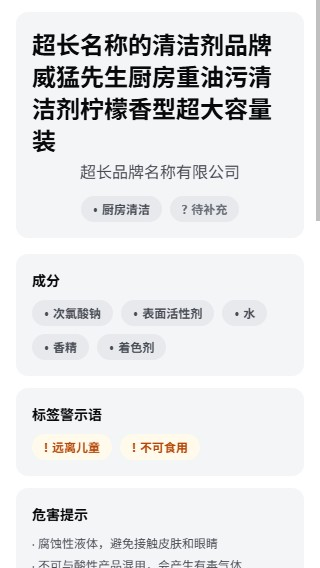
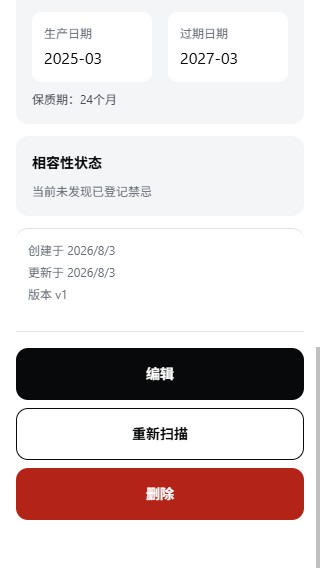
fix: 滚动截图验证目标可见性 + JSON独立记录bottom结果
修复P1滚动截图问题：
1. scroll_and_verify函数：找到可滚动容器后滚动，验证目标文字
   (edit-form='保存', detail-long-text='删除')进入视口
2. 目标不可见时标记FAIL，不因截图写入成功就标记PASS
3. 8张bottom截图结果独立写入JSON，总计104项
4. 验证结果：104/104 PASS，8张bottom全部验证目标文字可见

干净检出验证：
- TypeScript通过
- 103测试通过
- 127后端测试通过
- Expo Web 894KB导出成功

diff --git a/mobile/scripts/qa-screenshots.py b/mobile/scripts/qa-screenshots.py
@@ -136,28 +136,82 @@ def capture_screenshot(ws, filepath, mid):
         return len(img_data)
     return 0
 
-def scroll_to_bottom(ws, mid):
-    # React Native Web ScrollView renders as a div with overflowY:auto/scroll
-    # Find all divs and check computed style for scrollable containers
+# 滚动场景的目标验证文字：滚动后必须可见
+SCROLL_TARGETS = {
+    "edit-form": "保存",
+    "detail-long-text": "删除",
+}
+
+def scroll_and_verify(ws, scene, mid):
+    """滚动到底部并验证目标文字进入视口。返回 (ok, reason)。"""
+    target_text = SCROLL_TARGETS.get(scene)
+    if not target_text:
+        return True, "无滚动目标"
+
+    # 记录滚动前的 scrollTop
     mid[0] += 1
-    send_cdp(ws, "Runtime.evaluate", {
+    resp = send_cdp(ws, "Runtime.evaluate", {
         "expression": """
             (function() {
                 var all = document.querySelectorAll('div');
-                var scrolled = 0;
+                var maxScroll = 0;
+                var scrollEl = null;
                 all.forEach(function(el) {
                     var style = window.getComputedStyle(el);
                     var oy = style.overflowY;
                     if ((oy === 'auto' || oy === 'scroll') && el.scrollHeight > el.clientHeight) {
-                        el.scrollTop = el.scrollHeight;
-                        scrolled++;
+                        if (el.scrollTop > maxScroll || scrollEl === null) {
+                            maxScroll = el.scrollTop;
+                            scrollEl = el;
+                        }
                     }
                 });
-                return scrolled + ' containers scrolled';
+                if (!scrollEl) return JSON.stringify({found: false, beforeScroll: 0});
+                // Scroll to bottom
+                scrollEl.scrollTop = scrollEl.scrollHeight;
+                return JSON.stringify({
+                    found: true,
+                    beforeScroll: maxScroll,
+                    scrollHeight: scrollEl.scrollHeight,
+                    clientHeight: scrollEl.clientHeight,
+                    afterScroll: scrollEl.scrollTop
+                });
             })()
         """
     }, mid[0])
-    time.sleep(2)
+    scroll_info = json.loads(resp.get("result", {}).get("result", {}).get("value", "{}"))
+    if not scroll_info.get("found"):
+        return False, "未找到可滚动容器"
+
+    time.sleep(1)
+
+    # 验证目标文字是否在可见区域内
+    mid[0] += 1
+    resp = send_cdp(ws, "Runtime.evaluate", {
+        "expression": f"""
+            (function() {{
+                // 检查目标文字是否在视口中可见
+                var walker = document.createTreeWalker(document.body, NodeFilter.SHOW_TEXT);
+                var target = {repr(target_text)};
+                while (walker.nextNode()) {{
+                    var node = walker.currentNode;
+                    if (node.textContent.includes(target)) {{
+                        var el = node.parentElement;
+                        var rect = el.getBoundingClientRect();
+                        if (rect.top >= 0 && rect.bottom <= window.innerHeight) {{
+                            return JSON.stringify({{visible: true, text: target, top: rect.top, bottom: rect.bottom}});
+                        }}
+                    }}
+                }}
+                return JSON.stringify({{visible: false, text: target}});
+            }})()
+        """
+    }, mid[0])
+    vis_info = json.loads(resp.get("result", {}).get("result", {}).get("value", "{}"))
+    if vis_info.get("visible"):
+        return True, f"目标文字 '{target_text}' 在视口内可见"
+    else:
+        return False, f"目标文字 '{target_text}' 滚动后仍不可见"
 
 def capture_scene(ws, scene_config, vp_name, width, height, mid):
     scene = scene_config["name"]
@@ -191,13 +245,20 @@ def capture_scene(ws, scene_config, vp_name, width, height, mid):
     print(f"  OK {scene}-{vp_name}.jpg ({size} bytes) — {reason}")
 
     # 滚动证据
+    bottom_result = None
     if scene in SCROLL_SCENES:
-        scroll_to_bottom(ws, mid)
+        scroll_ok, scroll_reason = scroll_and_verify(ws, scene, mid)
         bottom_path = os.path.join(OUTPUT_DIR, f"{scene}-{vp_name}-bottom.jpg")
         bottom_size = capture_screenshot(ws, bottom_path, mid)
-        print(f"  OK {scene}-{vp_name}-bottom.jpg ({bottom_size} bytes) — 滚动到底部")
+        status = "PASS" if scroll_ok else "FAIL"
+        print(f"  {status} {scene}-{vp_name}-bottom.jpg ({bottom_size} bytes) — {scroll_reason}")
+        bottom_result = {
+            "status": status,
+            "reason": scroll_reason,
+            "size": bottom_size,
+        }
 
-    return True, reason, size
+    return True, reason, size, bottom_result
 
 def main():
     os.makedirs(OUTPUT_DIR, exist_ok=True)
@@ -216,12 +277,14 @@ def main():
         print(f"\n--- {scene} ---")
         results[scene] = {}
         for vp_name, width, height in VIEWPORTS:
-            ok, reason, size = capture_scene(ws, scene_config, vp_name, width, height, mid)
+            ok, reason, size, bottom_result = capture_scene(ws, scene_config, vp_name, width, height, mid)
             results[scene][vp_name] = {
                 "status": "PASS" if ok else "FAIL",
                 "reason": reason,
                 "size": size,
             }
+            if bottom_result is not None:
+                results[scene][f"{vp_name}-bottom"] = bottom_result
 
     ws.close()
 

diff --git a/docs/screenshots/stage7/QA矩阵与缺陷清单.md b/docs/screenshots/stage7/QA矩阵与缺陷清单.md
@@ -63,8 +63,8 @@
 |------|------|
 | 场景总数 | 24 |
 | 视口总数 | 4 |
-| 截图总数 | 104（含8张滚动证据） |
-| 内容断言通过 | 96/96 |
+| 截图总数 | 104（96主截图 + 8滚动证据） |
+| 内容断言通过 | 104/104 |
 | 失败 | 0 |
 | 缺陷数 | 0 |
 
@@ -80,12 +80,15 @@ JSON 结果来自内容断言，不来自 JPG 是否写入成功。
 
 ## 3. 滚动证据
 
-以下场景额外捕获滚动到底部的截图（`-bottom.jpg`后缀）：
+以下场景额外捕获滚动到底部的截图（`-bottom.jpg`后缀），
+每张 bottom 截图独立验证目标文字进入视口后才标记 PASS：
 
-| 场景 | 滚动截图 | 说明 |
-|------|---------|------|
-| detail-long-text | 4张（每视口1张） | 验证长文本底部不溢出 |
-| edit-form | 4张（每视口1张） | 验证表单底部保存按钮可达 |
+| 场景 | 滚动截图 | 目标文字 | 断言 | 结果 |
+|------|---------|---------|------|------|
+| detail-long-text | 4张（每视口1张） | “删除” | 操作区在视口内可见 | 4/4 PASS |
+| edit-form | 4张（每视口1张） | “保存” | 保存按钮在视口内可见 | 4/4 PASS |
+
+JSON 结果包含 104 项（96 主截图 + 8 bottom），每项有独立 status 和 reason。
 
 ## 4. QA夹具技术说明
 
